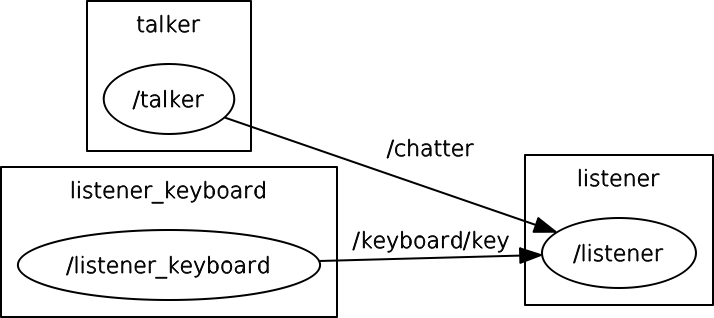
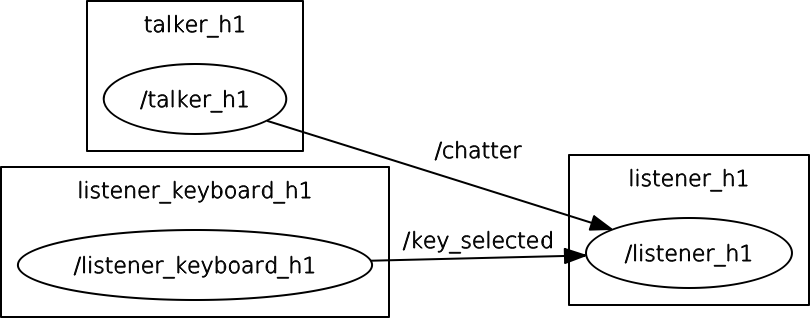
Version 3.0

diff --git a/src/listener_keyboard_h1.cpp b/src/listener_keyboard_h1.cpp
@@ -3,28 +3,53 @@
 #include <stdio.h>
 #include "std_msgs/String.h"
 #include <sstream>
+#include <termios.h>
 
+
+/**
+ * This is the file descriptor (0 = keyboard)
+ */
 int fd = 0;
-
+struct termios cooked, raw;
+  /**
+   * This function manages the exit with CTRL+C
+   */
 void quit(int sig)
 {
   (void)sig;
+  tcsetattr(fd, TCSANOW, &cooked);
   ros::shutdown();
   exit(0);
 }
 
-
+  /*
+   * User can select how filtered the message published on "/chatter" topic
+   * The character selected is published on "/key_selected" topic
+   */
 int main(int argc, char** argv)
 {
-  ros::init(argc, argv, "teleop_key");
+  ros::init(argc, argv, "listener_keyboard_h1");
 
   ros::NodeHandle n;
 
-  ros::Publisher key_pub = n.advertise<std_msgs::String>("keyboard/key", 1);
+  /**
+   * The advertise() function is how you tell ROS that you want to
+   * publish on a given topic name.
+   */
+  ros::Publisher key_pub = n.advertise<std_msgs::String>("/key_selected", 1);
 
   signal(SIGINT,quit);
 
   char c;
+
+  // get the console in raw mode
+  tcgetattr(fd, &cooked);
+  memcpy(&raw, &cooked, sizeof(struct termios));
+  raw.c_lflag &=~ (ICANON | ECHO);
+  // Setting a new line, then end of file
+  raw.c_cc[VEOL] = 1;
+  raw.c_cc[VEOF] = 2;
+  tcsetattr(fd, TCSANOW, &raw);
 
   puts("Reading from keyboard");
   puts("-------------------------------------------------");

diff --git a/src/listener_h1.cpp b/src/listener_h1.cpp
@@ -3,13 +3,27 @@
 #include "homework1/persona.h"
 #include "string.h"
 
+
+/**
+  * In this code a node n subscribes on "/key_selected" topic to filter the
+  * message published by "/chatter" topic
+  */
 std::string temp;
 
+
+/**
+  * This callback saves the message published on the "/key_selected" topic
+  * in temp
+  */
 void keyCallback(const std_msgs::String ::ConstPtr& msg)
 {
   temp = msg->data.c_str();
 }
 
+/**
+  * This callback compares string temp with a, n, e and c to filter the
+  * message and prints the filtered mesage
+  */
 void chatterCallback(const homework1::persona& msg)
 {
 
@@ -26,13 +40,20 @@ void chatterCallback(const homework1::persona& msg)
 
 int main(int argc, char **argv)
 {
-  ros::init(argc, argv, "listener");
+  ros::init(argc, argv, "listener_h1");
 
   ros::NodeHandle n;
 
-  ros::Subscriber sub = n.subscribe("keyboard/key", 1000, keyCallback);
+  /**
+   * The subscribe() call is how you tell ROS that you want to receive messages
+   * on a given topic.
+   */
+  ros::Subscriber sub = n.subscribe("/key_selected", 1000, keyCallback);
   ros::Subscriber sub2 = n.subscribe("/chatter", 1000, chatterCallback);
 
+  /**
+   * ros::spin() will enter a loop, pumping callbacks.
+   */
   ros::spin();
 
   return 0;

diff --git a/src/talker_h1.cpp b/src/talker_h1.cpp
@@ -3,21 +3,34 @@
 #include "homework1/persona.h"
 #include <sstream>
 
-
+/**
+  * In this code a node chatter_pub publishes a message Persona on
+  * "/chatter" topic
+  */
 int main(int argc, char **argv)
 {
 
-  ros::init(argc, argv, "talker");
+  ros::init(argc, argv, "talker_h1");
 
   ros::NodeHandle n;
 
+  /**
+   * The advertise() function is how you tell ROS that you want to
+   * publish on a given topic name.
+   */
   ros::Publisher chatter_pub = n.advertise<homework1::persona>("/chatter", 1000);
 
+  /**
+    * chatter_pub publishes every second
+    */
   ros::Rate loop_rate(1);
 
   while (ros::ok())
   {
-
+    /**
+      * This is a message object.
+      * Persona contains three fields: nome, age, corso
+      */
     homework1::persona msg;
 
     std::stringstream ss1;
@@ -32,6 +45,10 @@ int main(int argc, char **argv)
 
     ROS_INFO("nome: %s, eta': %i, corso: %s", msg.nome.c_str(), msg.age, msg.corso.c_str());
 
+    /**
+     * The publish() function is how you send messages. The parameter
+     * is the message object.
+     */
     chatter_pub.publish(msg);
 
     ros::spinOnce();

diff --git a/README.md b/README.md
@@ -10,18 +10,34 @@ along with homework1. If not, see <http://www.gnu.org/licenses/>.
 
 =Description=
 
-The files in homework1 contain the ROS based implementation for
-realize three node where first one publish every second a message(contains name,age and bachelor's),
-the second one allows the user to select from the keyboard which part of the message to display on the screen
-and the last one print the part of the message selected by the user previously.
+The package homework1 contains three file written in C++.
+These are based on ROS to realize three node.
+
+The first node "talker_h1" publishes every second a message Pesona, that contains
+"nome", "age", "corso".
+The second one (listener_keyboard_h1) allows the user to select from keyboard which part of the message
+to display on the screen.
+The last one print the part of message filtered by user previously.
+
 
 =Implementation=
 
-The first node(talker) publish every second a message in "chatter" topic .
-The second node(listener_keyboard) listen the keyboard and when the user type a key publish a message in
-"keyboard/key" topic.
-The third node(listener) listen the "chatter" topic and the "keyboard/key" topic and use these information to choose
-what part of message to display on the screen.
+The first node (talker_h1) publishes every second a message on "/chatter" topic.
+ .
+The second node (listener_keyboard_h1) listen the keyboard and when the user selected a key publish a message on
+"key_selected" topic.
+
+The third node (listener_h1) listen the "/chatter" topic and the "key_selected" topic and use these information
+to choose what part of message to display on the screen.
+
+
+=Launch=
+
+The user can use homework1.launch to launch all nodes of the package.
+This is a screenshot of the launcher
+![screen launcher](images/screen_launch.png)
+
+This package has been developed on ROS Indigo (Ubuntu 14.04)
 
 This is the rqt_graph of the package
 ![rosgraph](images/rosgraph.png)
